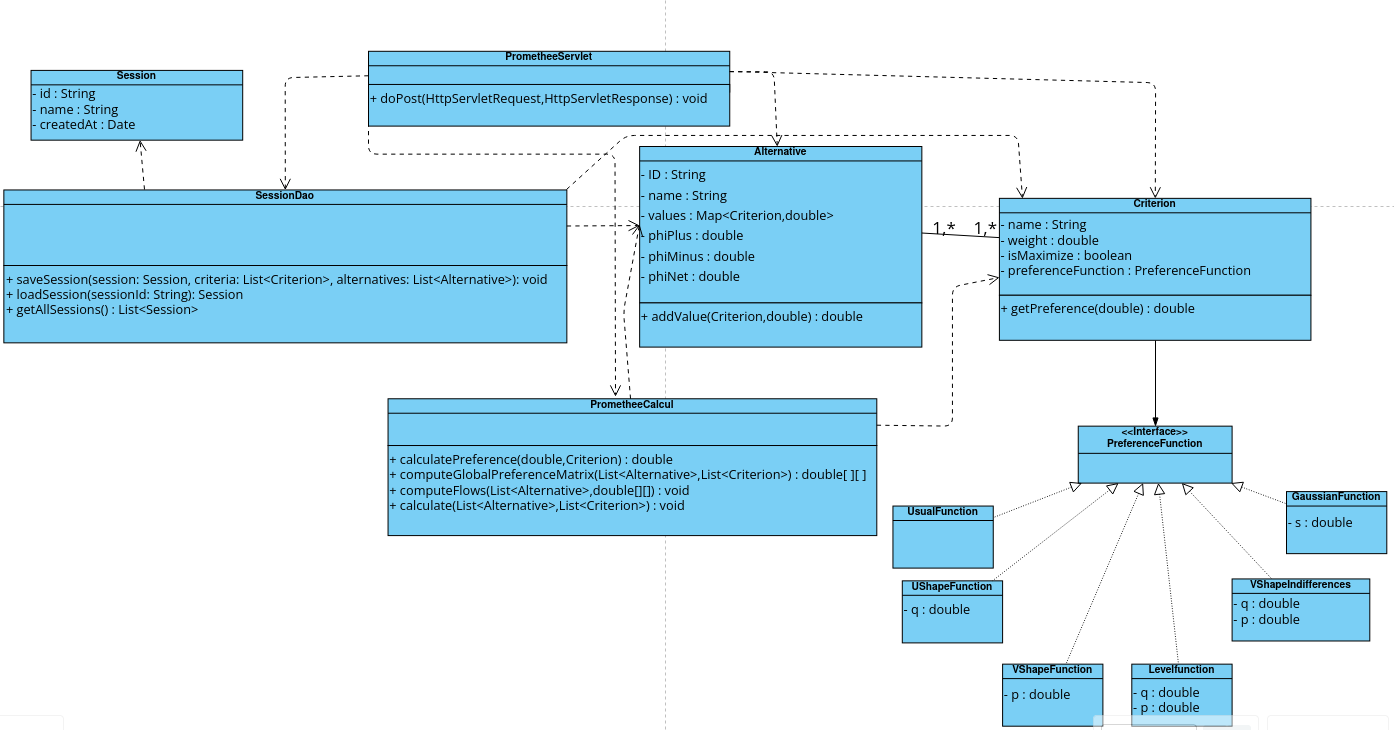
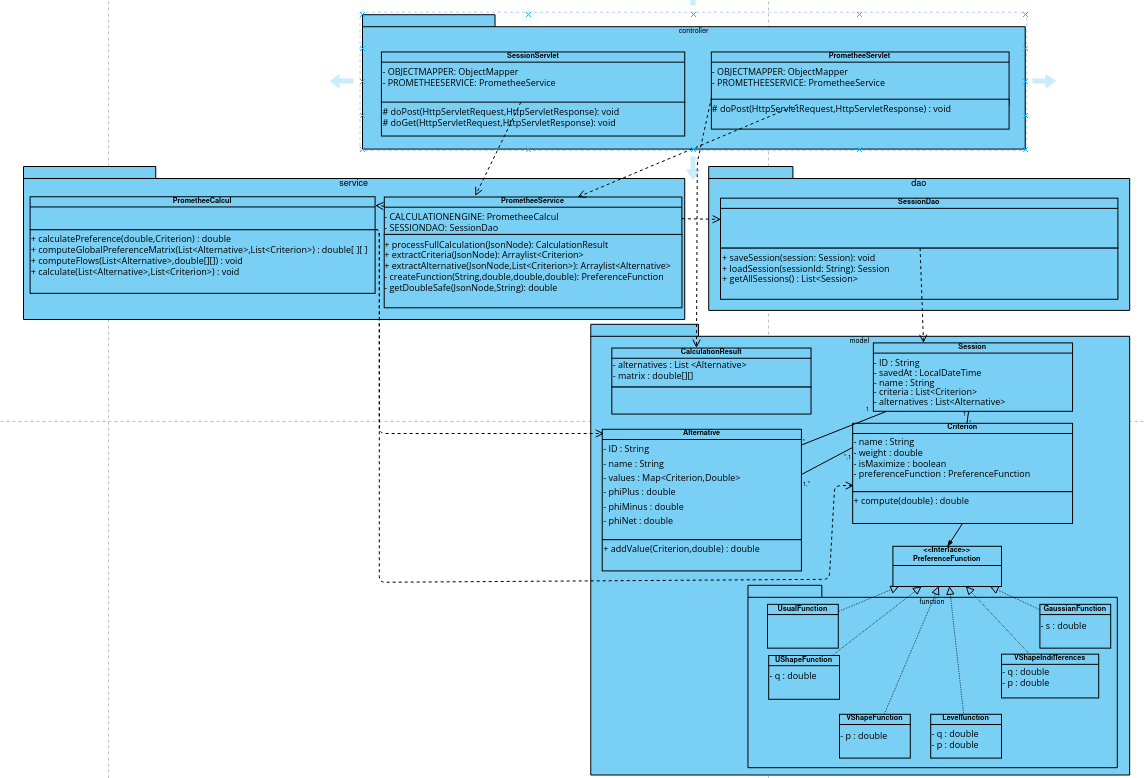
Back-end + uml diagram : add equals and hashcode for hashmap in alternative and update uml diagram

diff --git a/src/main/java/model/Criterion.java b/src/main/java/model/Criterion.java
@@ -129,4 +129,17 @@ public class Criterion {
      * @param preferenceFunction the new preference function
      */
     public void setPreferenceFunction(PreferenceFunction preferenceFunction) { this.preferenceFunction = preferenceFunction; }
+
+    @Override
+    public boolean equals(Object o) {
+        if (this == o) return true;
+        if (o == null || getClass() != o.getClass()) return false;
+        Criterion criterion = (Criterion) o;
+        return java.util.Objects.equals(id, criterion.id);
+    }
+
+    @Override
+    public int hashCode() {
+        return java.util.Objects.hash(id);
+    }
 }
